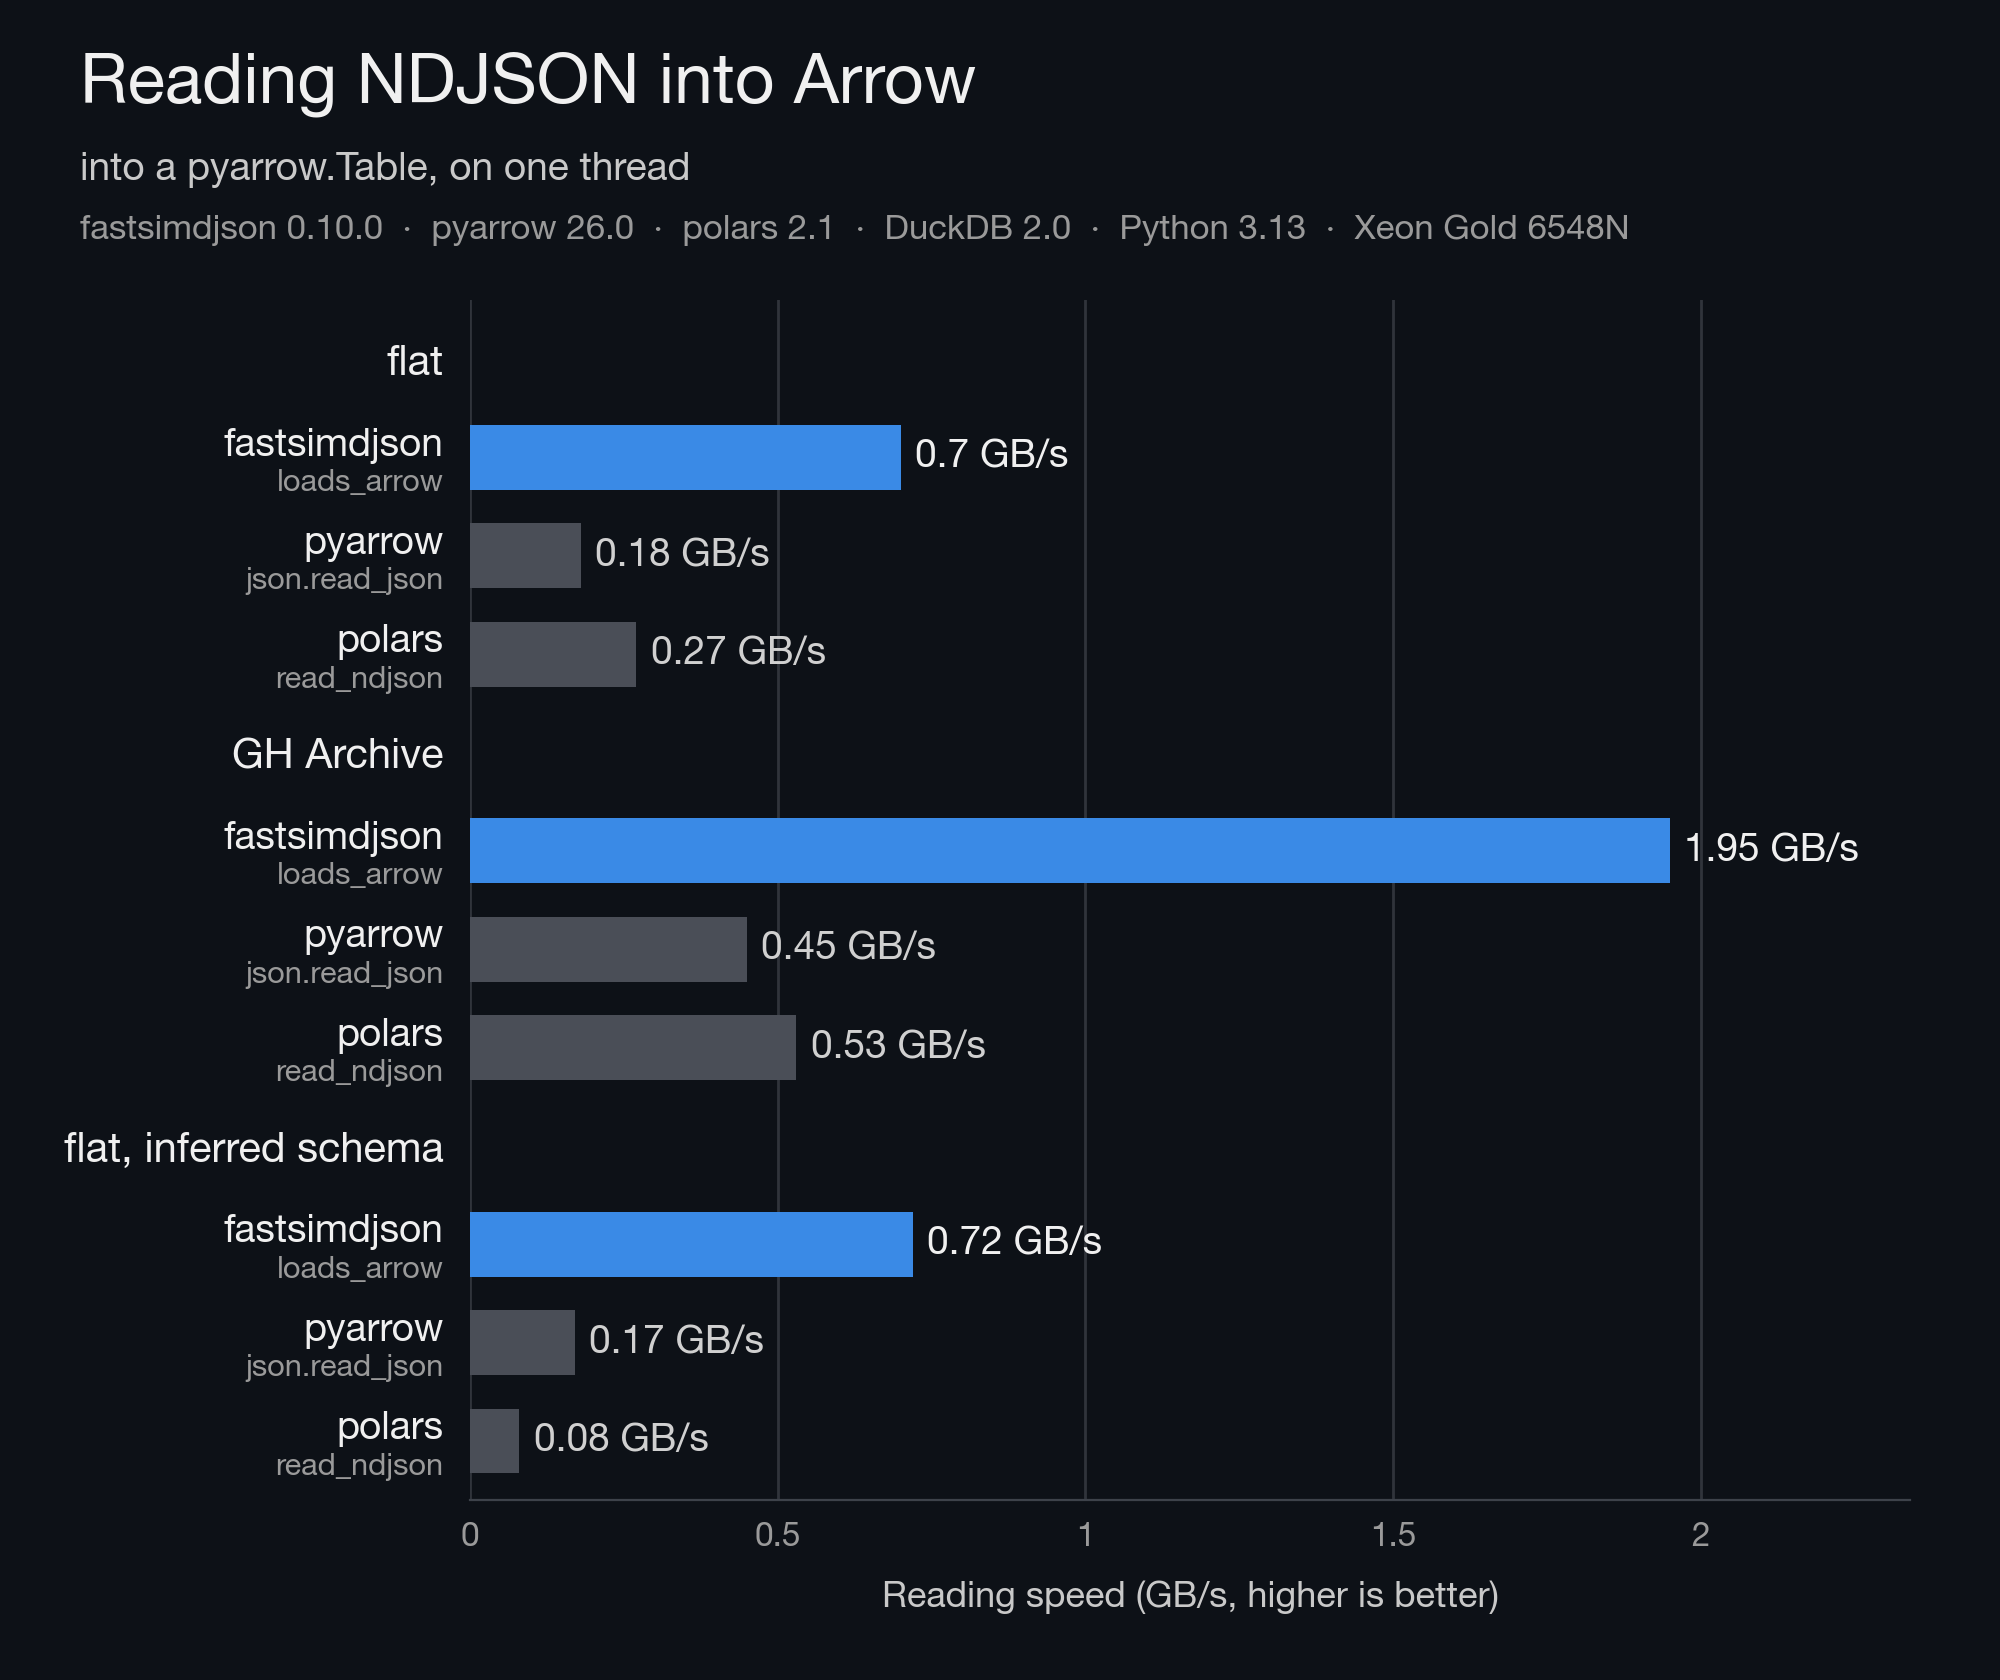
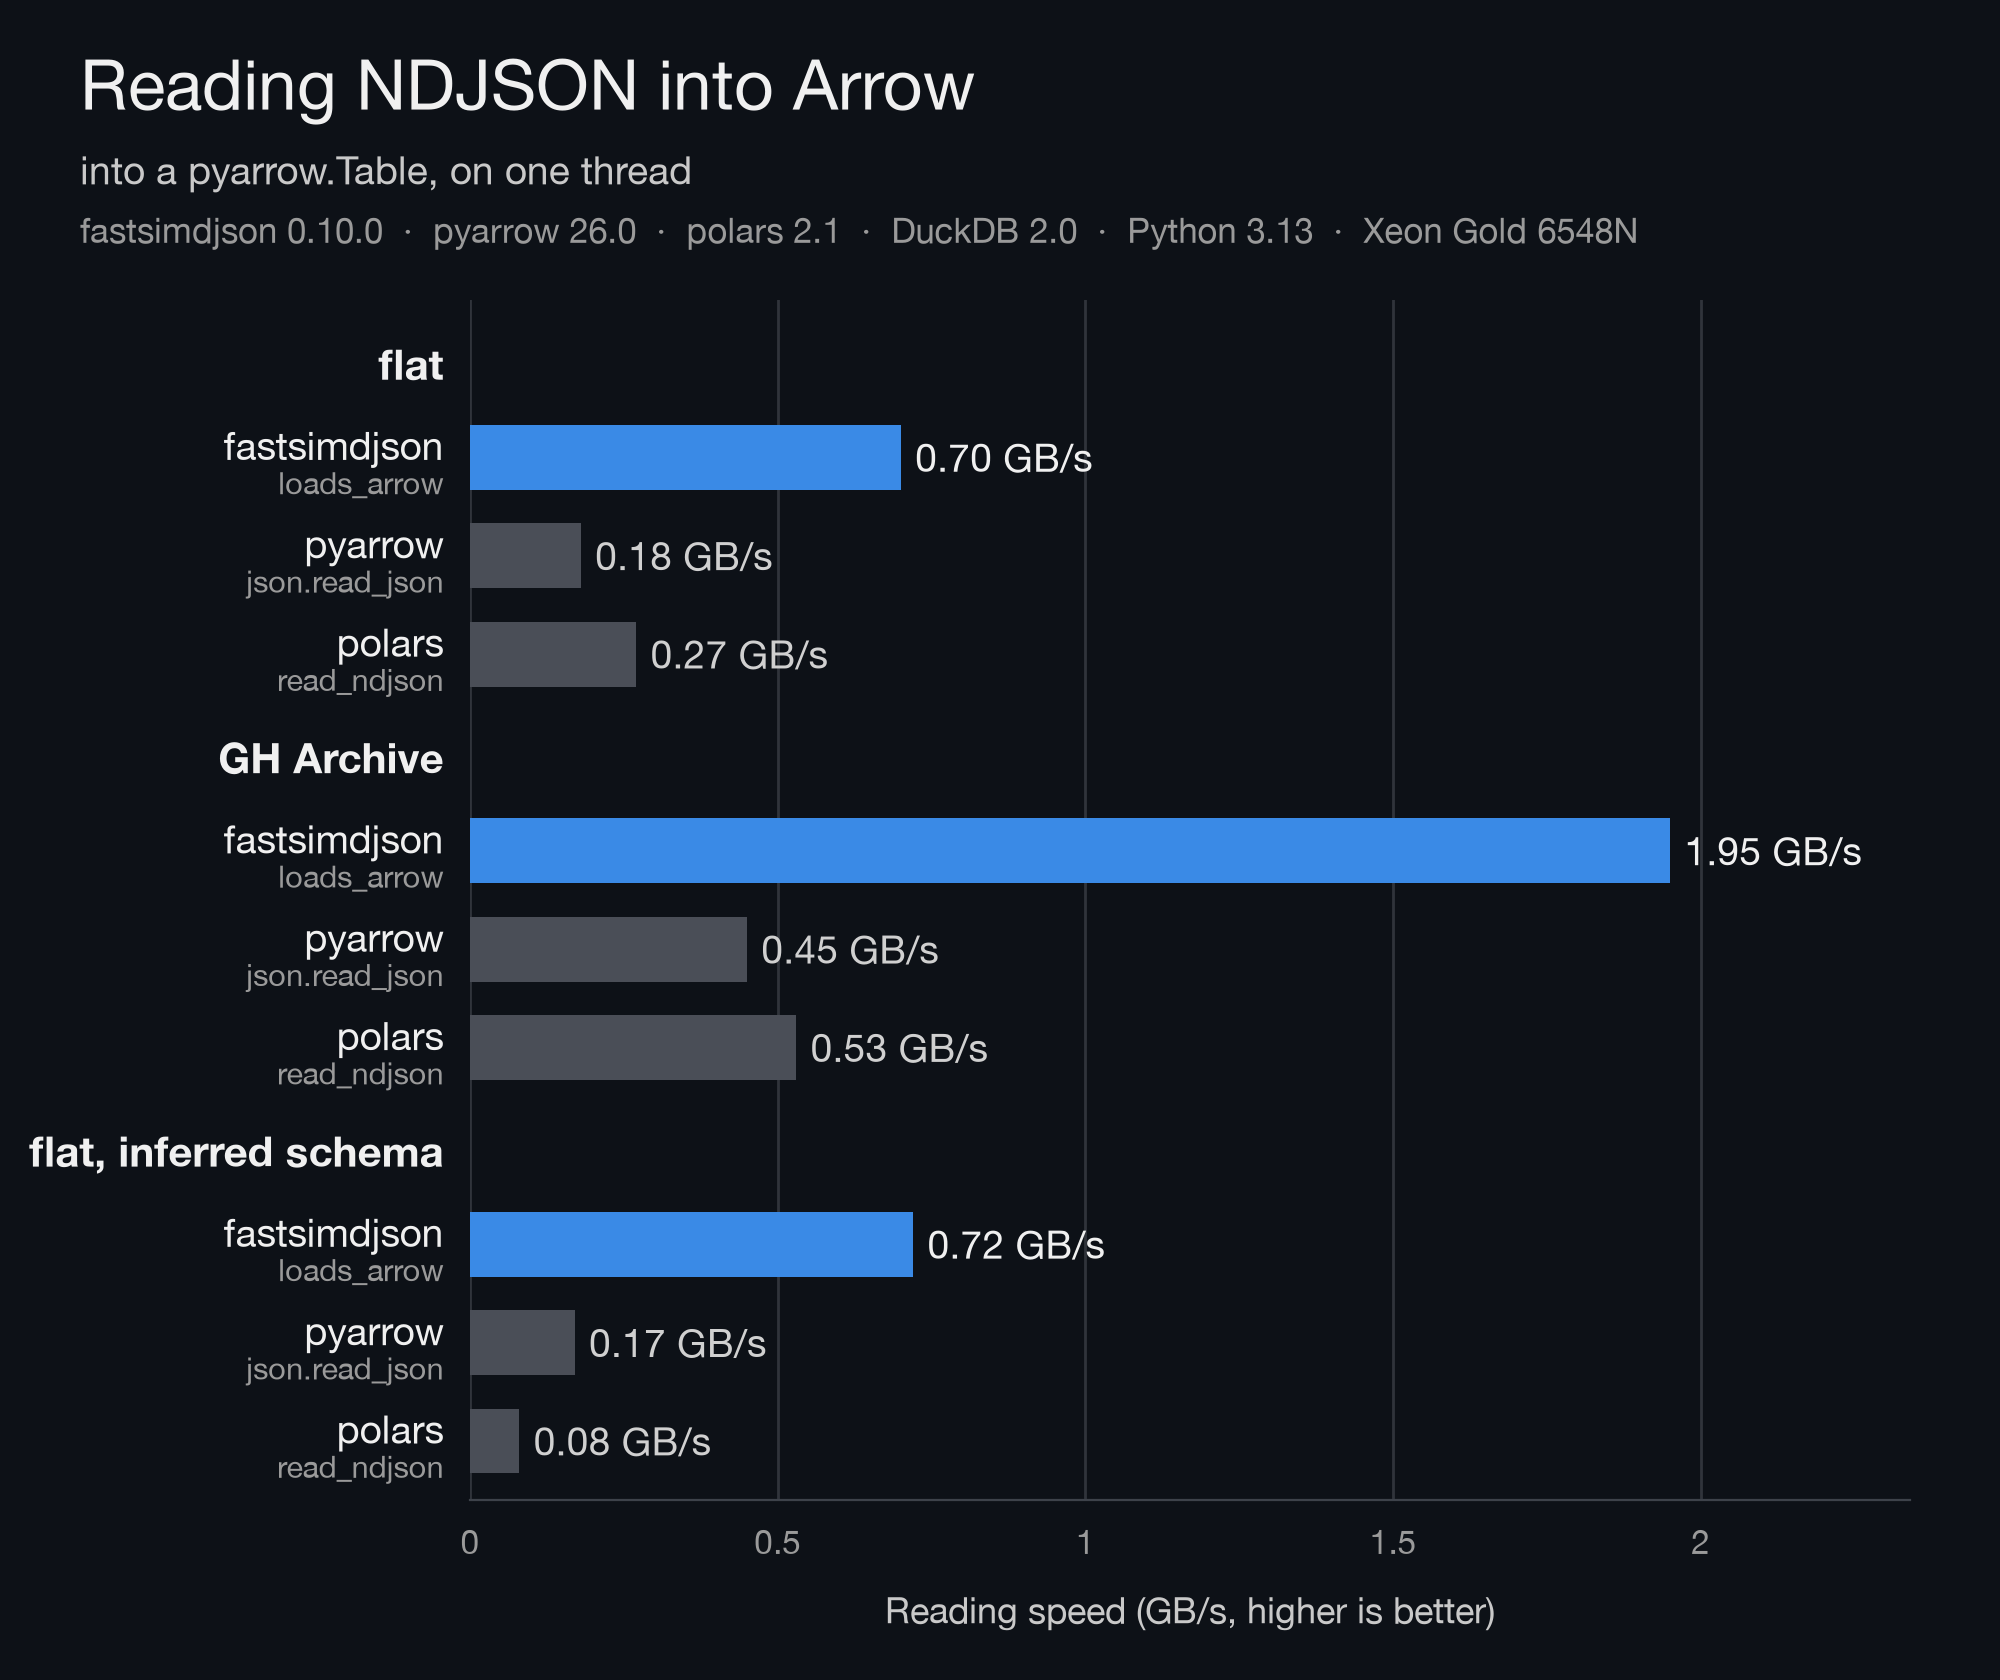
Charts: two decimals below 1 GB/s (0.20, 0.70, not 0.2, 0.7)

diff --git a/doc/make_charts.py b/doc/make_charts.py
@@ -155,7 +155,9 @@ META_ARROW = ("fastsimdjson 0.10.0  ·  pyarrow 26.0  ·  polars 2.1  ·  DuckDB
 
 
 def gbps(v):
-    """The value as given (we pass rounded numbers): 0.12, 1.95, 4.0, 13.9."""
+    """The value as given (we pass rounded numbers): 0.12, 0.20, 1.95, 4.0, 13.9."""
+    if v < 1:
+        return f"{v:.2f}"
     text = f"{v:g}"
     return text if "." in text else text + ".0"
 
